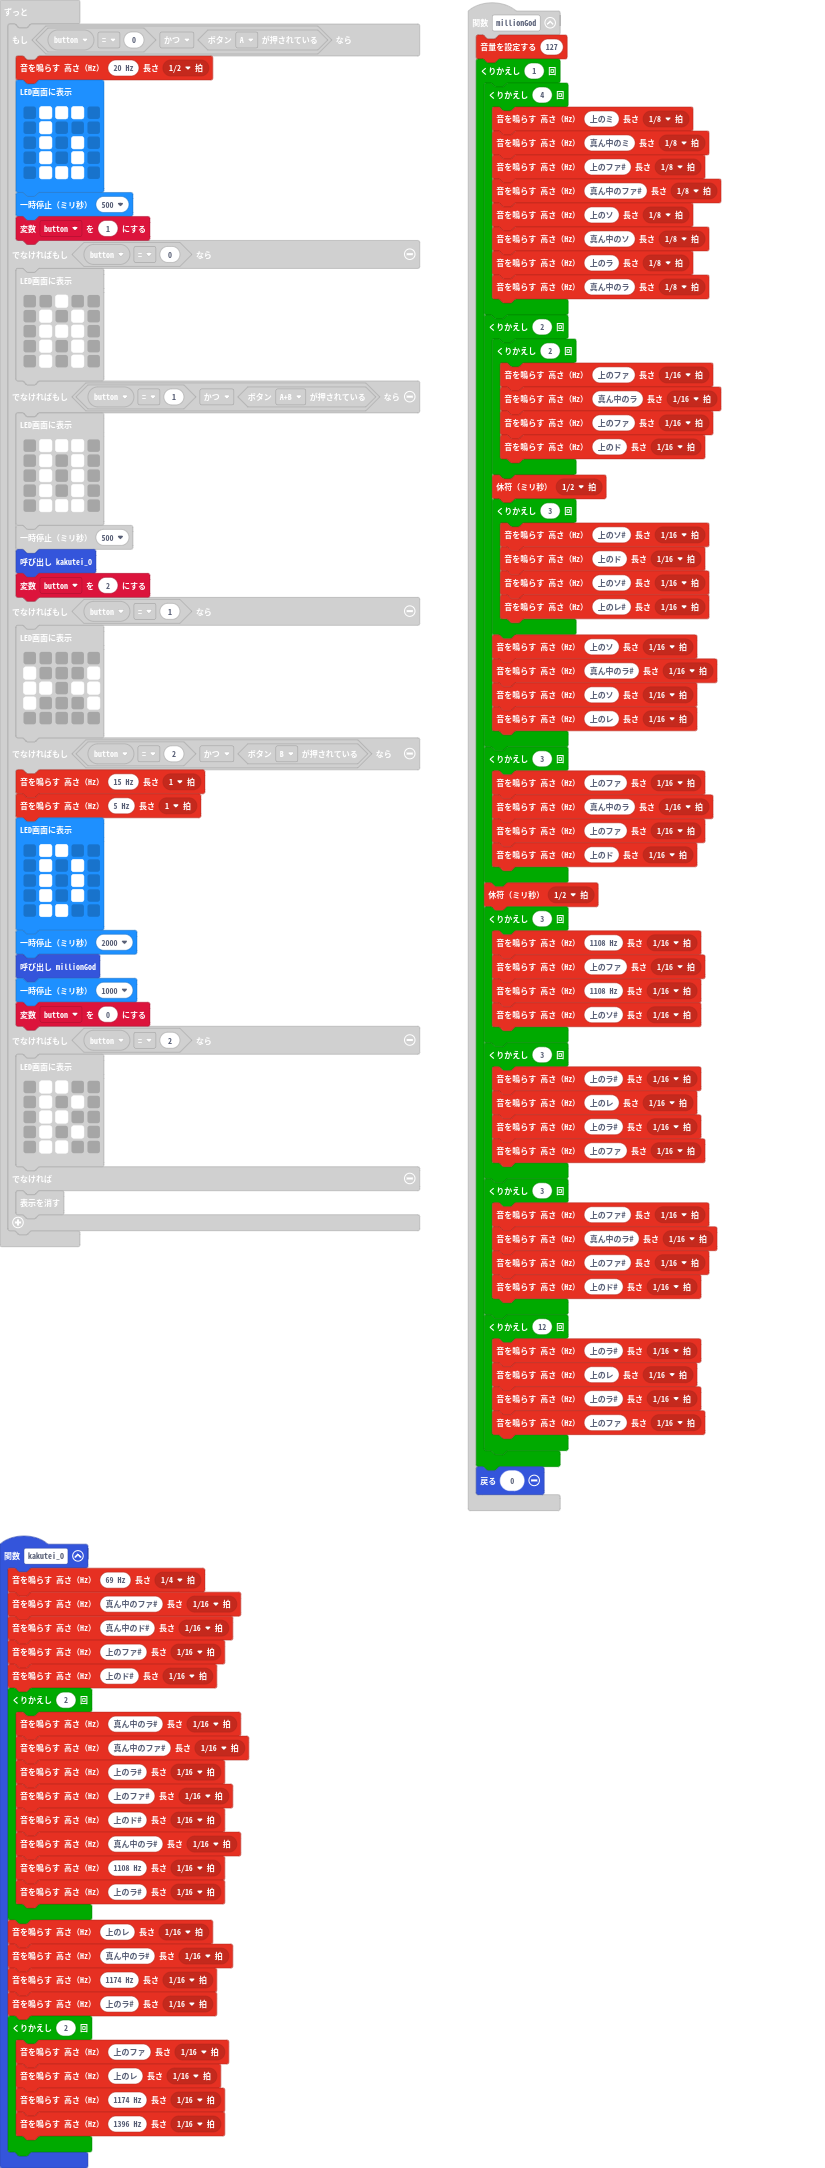
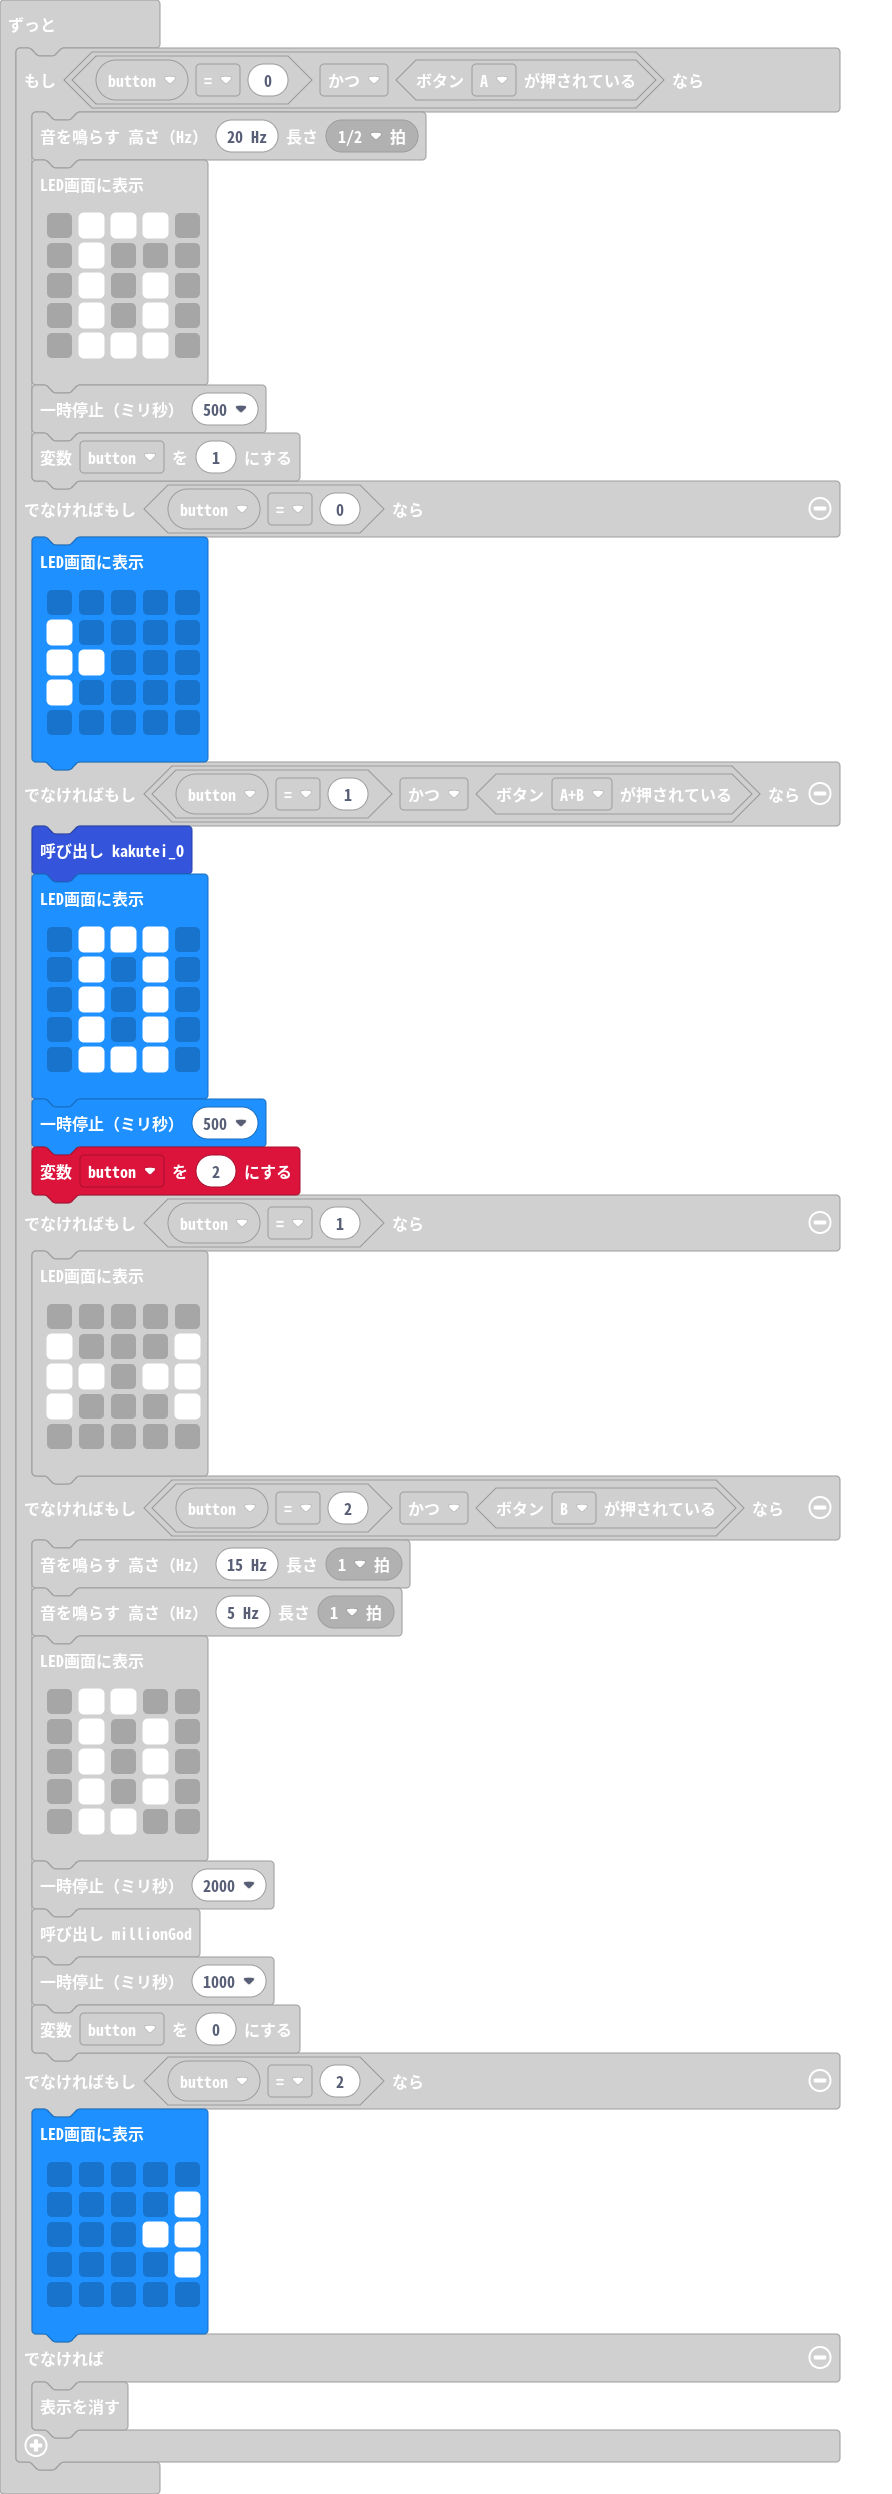
更新 main.blocks, main.ts

diff --git a/main.ts b/main.ts
@@ -149,13 +149,14 @@ basic.forever(function () {
         button = 1
     } else if (button == 0) {
         basic.showLeds(`
-            . . # . .
-            . # . # .
-            . # # # .
-            . # . # .
-            . # . # .
+            . . . . .
+            # . . . .
+            # # . . .
+            # . . . .
+            . . . . .
             `)
     } else if (button == 1 && input.buttonIsPressed(Button.AB)) {
+        kakutei_O()
         basic.showLeds(`
             . # # # .
             . # . # .
@@ -164,7 +165,6 @@ basic.forever(function () {
             . # # # .
             `)
         basic.pause(500)
-        kakutei_O()
         button = 2
     } else if (button == 1) {
         basic.showLeds(`
@@ -190,11 +190,11 @@ basic.forever(function () {
         button = 0
     } else if (button == 2) {
         basic.showLeds(`
-            . # # . .
-            . # . # .
-            . # # . .
-            . # . # .
-            . # # . .
+            . . . . .
+            . . . . #
+            . . . # #
+            . . . . #
+            . . . . .
             `)
     } else {
         basic.clearScreen()
